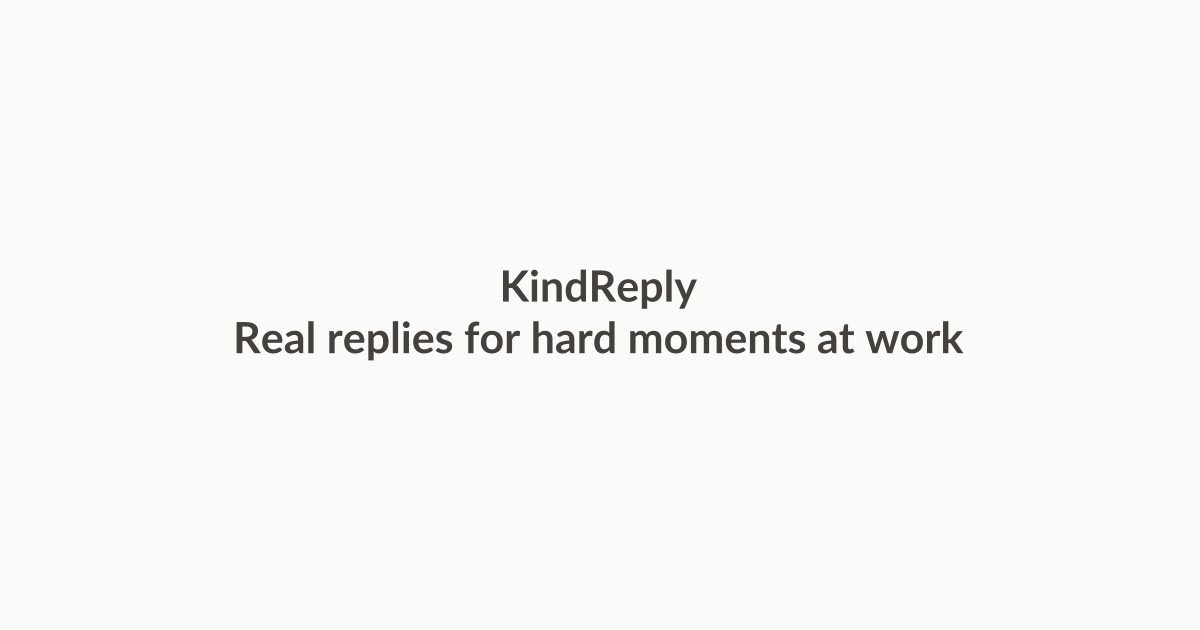
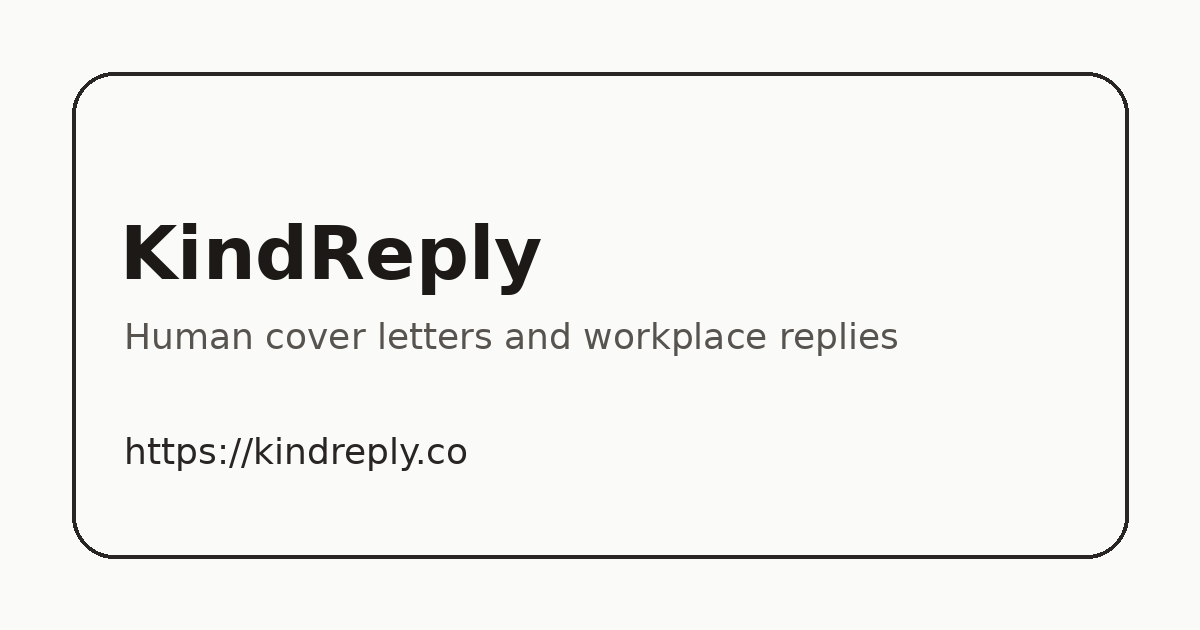
fix: resolve SEO audit findings

diff --git a/app/layout.tsx b/app/layout.tsx
@@ -34,6 +34,14 @@ export const metadata: Metadata = {
     title: "Human Workplace — Real Professional Replies for Hard Moments",
     description:
       "Copy-ready workplace replies for resignation, burnout, difficult conversations, and more. Professional, kind, and human.",
+    images: [
+      {
+        url: "/og-image.png",
+        width: 1200,
+        height: 630,
+        alt: "KindReply — human cover letters and workplace replies",
+      },
+    ],
   },
   twitter: {
     card: "summary_large_image",
@@ -41,6 +49,7 @@ export const metadata: Metadata = {
     description:
       "Copy-ready workplace replies for resignation, burnout, difficult conversations, and more.",
     creator: "@humanworkplace",
+    images: ["/og-image.png"],
   },
   alternates: {
     canonical: "/",
@@ -65,19 +74,55 @@ export default function RootLayout({
         <script
           type="application/ld+json"
           dangerouslySetInnerHTML={{
-            __html: JSON.stringify({
-              "@context": "https://schema.org",
-              "@type": "WebSite",
-              name: "Human Workplace",
-              url: "https://kindreply.co/",
-              description:
-                "A curated collection of real, professional, and emotionally intelligent workplace replies.",
-              publisher: {
-                "@type": "Organization",
+            __html: JSON.stringify([
+              {
+                "@context": "https://schema.org",
+                "@type": "WebSite",
                 name: "Human Workplace",
                 url: "https://kindreply.co/",
+                description:
+                  "A curated collection of real, professional, and emotionally intelligent workplace replies.",
+                publisher: {
+                  "@type": "Organization",
+                  name: "Human Workplace",
+                  url: "https://kindreply.co/",
+                },
               },
-            }),
+              {
+                "@context": "https://schema.org",
+                "@type": "BreadcrumbList",
+                itemListElement: [
+                  {
+                    "@type": "ListItem",
+                    position: 1,
+                    name: "KindReply",
+                    item: "https://kindreply.co/",
+                  },
+                ],
+              },
+              {
+                "@context": "https://schema.org",
+                "@type": "FAQPage",
+                mainEntity: [
+                  {
+                    "@type": "Question",
+                    name: "What is KindReply?",
+                    acceptedAnswer: {
+                      "@type": "Answer",
+                      text: "KindReply provides human-sounding cover letter drafts and workplace reply examples for difficult professional moments.",
+                    },
+                  },
+                  {
+                    "@type": "Question",
+                    name: "Can I copy and adapt the examples?",
+                    acceptedAnswer: {
+                      "@type": "Answer",
+                      text: "Yes. KindReply examples are designed to be copied, edited, and adapted to your own situation before sending.",
+                    },
+                  },
+                ],
+              },
+            ]),
           }}
         />
       </head>

diff --git a/app/about/page.tsx b/app/about/page.tsx
@@ -4,7 +4,7 @@ import Footer from "@/components/Footer";
 import { Heart, ArrowRight } from "lucide-react";
 
 export const metadata = {
-  title: "About — Human Workplace",
+  title: "About KindReply — Human Workplace Replies",
   description:
     "Human Workplace is a curated collection of real, professional, and emotionally intelligent workplace replies. No AI templates. No fluff.",
   alternates: {
@@ -109,12 +109,7 @@ export default function AboutPage() {
               <p className="text-muted-foreground leading-relaxed mb-8">
                 Have a suggestion for a reply we should add? Found something that could
                 be better? We would love to hear from you. Reach out at{" "}
-                <a
-                  href="mailto:[email redacted]"
-                  className="text-foreground underline underline-offset-2 hover:text-stone-600"
-                >
-                  [email redacted]
-                </a>
+                <span className="text-foreground">[email redacted]</span>
                 .
               </p>
 

diff --git a/app/privacy/page.tsx b/app/privacy/page.tsx
@@ -3,7 +3,7 @@ import Header from "@/components/Header";
 import Footer from "@/components/Footer";
 
 export const metadata = {
-  title: "Privacy Policy — KindReply",
+  title: "Privacy Policy — KindReply Data Use and Privacy",
   description:
     "KindReply does not collect personal data. We do not use cookies, analytics, or tracking. Read our full privacy policy.",
   alternates: {
@@ -93,12 +93,7 @@ export default function PrivacyPage() {
               <p className="text-muted-foreground leading-relaxed">
                 If you have any questions about this privacy policy, please contact
                 us at{" "}
-                <a
-                  href="mailto:[email redacted]"
-                  className="text-foreground underline underline-offset-2 hover:text-stone-600"
-                >
-                  [email redacted]
-                </a>
+                <span className="text-foreground">[email redacted]</span>
                 .
               </p>
             </div>

diff --git a/app/terms/page.tsx b/app/terms/page.tsx
@@ -3,7 +3,7 @@ import Header from "@/components/Header";
 import Footer from "@/components/Footer";
 
 export const metadata = {
-  title: "Terms of Service — KindReply",
+  title: "Terms of Service — KindReply User Terms",
   description:
     "By using KindReply, you agree to these terms. Our content is for informational purposes only.",
   alternates: {
@@ -78,12 +78,7 @@ export default function TermsPage() {
               </h2>
               <p className="text-muted-foreground leading-relaxed">
                 If you have any questions about these terms, please contact us at{" "}
-                <a
-                  href="mailto:[email redacted]"
-                  className="text-foreground underline underline-offset-2 hover:text-stone-600"
-                >
-                  [email redacted]
-                </a>
+                <span className="text-foreground">[email redacted]</span>
                 .
               </p>
             </div>

diff --git a/app/type-and-release/page.tsx b/app/type-and-release/page.tsx
@@ -257,7 +257,7 @@ export default function TypeAndReleasePage() {
                 <li>
                   <strong className="text-foreground">When overwhelmed by workload:</strong>{" "}
                   Clarify your thoughts before{" "}
-                  <a href="/workplace/how-to-tell-your-boss-youre-overwhelmed/" className="text-foreground underline">
+                  <a href="/workplace/telling-your-boss-youre-overwhelmed/" className="text-foreground underline">
                     talking to your manager
                   </a>.
                 </li>
@@ -343,15 +343,15 @@ export default function TypeAndReleasePage() {
                 next. If your writing revealed a workplace issue that needs
                 addressing, KindReply has templates to help you communicate
                 professionally: from{" "}
-                <a href="/workplace/how-to-ask-for-a-raise/" className="text-foreground underline">
+                <a href="/workplace/asking-for-help-at-work/" className="text-foreground underline">
                   asking for a raise
                 </a>{" "}
                 to{" "}
-                <a href="/workplace/how-to-decline-extra-work/" className="text-foreground underline">
+                <a href="/workplace/saying-no-to-unpaid-overtime/" className="text-foreground underline">
                   declining extra work
                 </a>{" "}
                 to{" "}
-                <a href="/workplace/how-to-respond-to-a-rude-email-professionally/" className="text-foreground underline">
+                <a href="/workplace/talking-to-a-toxic-manager-calmly/" className="text-foreground underline">
                   responding to rude emails
                 </a>.
               </p>

diff --git a/app/job-search/page.tsx b/app/job-search/page.tsx
@@ -177,14 +177,14 @@ export default function JobSearchPage() {
               <p className="mt-1 text-sm text-[#6B6B6B]">Leave with your head high</p>
             </Link>
             <Link
-              href="/workplace/how-to-ask-for-a-raise/"
+              href="/workplace/asking-for-help-at-work/"
               className="rounded-lg border border-[#E5E5E5] bg-white p-4 transition hover:border-[#1A1A1A]"
             >
               <p className="font-medium text-[#1A1A1A]">How to Ask for a Raise</p>
               <p className="mt-1 text-sm text-[#6B6B6B]">Make the case with data</p>
             </Link>
             <Link
-              href="/workplace/how-to-tell-your-boss-youre-overwhelmed/"
+              href="/workplace/telling-your-boss-youre-overwhelmed/"
               className="rounded-lg border border-[#E5E5E5] bg-white p-4 transition hover:border-[#1A1A1A]"
             >
               <p className="font-medium text-[#1A1A1A]">Telling Your Boss You Are Overwhelmed</p>

diff --git a/components/PopularWorkplaceSituations.tsx b/components/PopularWorkplaceSituations.tsx
@@ -8,8 +8,8 @@ export default function PopularWorkplaceSituations() {
   const popularSlugs = [
     "how-to-resign-gracefully",
     "two-weeks-notice-email",
-    "how-to-ask-for-a-raise",
-    "how-to-tell-your-boss-youre-overwhelmed",
+    "asking-for-help-at-work",
+    "telling-your-boss-youre-overwhelmed",
     "how-to-ask-for-a-mental-health-day",
     "giving-negative-feedback-that-lands-well",
     "how-to-say-no-to-unpaid-overtime",

diff --git a/components/Footer.tsx b/components/Footer.tsx
@@ -27,6 +27,9 @@ export default function Footer() {
             <Link href="/cover-letter-examples/" className="hover:text-foreground transition-colors">
               Cover Letters
             </Link>
+            <Link href="/cover-letter-mistakes/" className="hover:text-foreground transition-colors">
+              Cover Letter Mistakes
+            </Link>
             <Link href="/job-search/" className="hover:text-foreground transition-colors">
               Job Search
             </Link>

diff --git a/app/ai-prd-generator/page.tsx b/app/ai-prd-generator/page.tsx
@@ -6,7 +6,7 @@ import AI_PRD_Generator from "./AI_PRD_Generator";
 
 export const metadata: Metadata = {
   metadataBase: new URL("https://kindreply.co"),
-  title: "AI PRD Generator — Create Product Requirement Documents for AI Coding",
+  title: "AI PRD Generator — Create Product Requirements Fast",
   description:
     "Generate structured PRDs for Claude Code, Cursor, Bolt and other AI coding tools. Free online AI PRD generator with Markdown export.",
   keywords: [

diff --git a/app/cover-letter-for-data-analyst/page.tsx b/app/cover-letter-for-data-analyst/page.tsx
@@ -304,7 +304,7 @@ export default function DataAnalystPage() {
               </p>
             </Link>
             <Link
-              href="/workplace/how-to-tell-your-boss-youre-overwhelmed/"
+              href="/workplace/telling-your-boss-youre-overwhelmed/"
               className="rounded-lg border border-[#E5E5E5] bg-white p-4 transition hover:border-[#1A1A1A]"
             >
               <p className="font-medium text-[#1A1A1A]">

diff --git a/app/cover-letter-for-internship/page.tsx b/app/cover-letter-for-internship/page.tsx
@@ -304,7 +304,7 @@ export default function InternshipPage() {
               </p>
             </Link>
             <Link
-              href="/workplace/how-to-ask-for-a-raise/"
+              href="/workplace/asking-for-help-at-work/"
               className="rounded-lg border border-[#E5E5E5] bg-white p-4 transition hover:border-[#1A1A1A]"
             >
               <p className="font-medium text-[#1A1A1A]">

diff --git a/app/cover-letter-for-marketing-manager/page.tsx b/app/cover-letter-for-marketing-manager/page.tsx
@@ -305,7 +305,7 @@ export default function MarketingManagerPage() {
               </p>
             </Link>
             <Link
-              href="/workplace/how-to-ask-for-a-raise/"
+              href="/workplace/asking-for-help-at-work/"
               className="rounded-lg border border-[#E5E5E5] bg-white p-4 transition hover:border-[#1A1A1A]"
             >
               <p className="font-medium text-[#1A1A1A]">